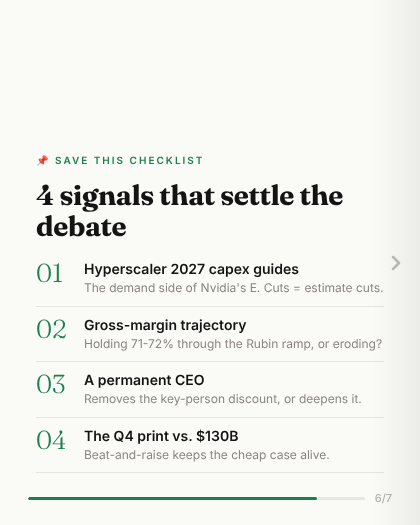
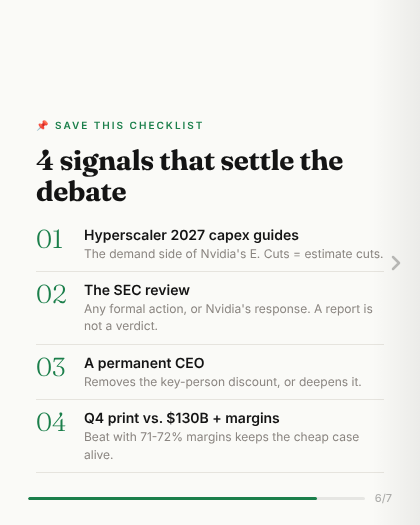
Nvidia carousel: update with Friday close and SEC report
Claude-Session: https://claude.ai/code/session_01HEfkBjtX9jJLAwHVacHrK9

Changed region(s): [[0.0619, 0.2743, 0.9286, 0.8838], [0.0619, 0.6095, 0.1548, 0.8533], [0.0929, 0.2133, 0.4952, 0.2438]]

diff --git a/instagram/panic-and-profit/daily/2026-11-21-nvda/carousel.html b/instagram/panic-and-profit/daily/2026-11-21-nvda/carousel.html
@@ -31,26 +31,29 @@ body{background:#ECEBE6;font-family:'Inter',sans-serif;display:flex;justify-cont
 <polyline points="2,70 40,52 80,38 120,20 150,8 180,26 210,44 240,60 270,74 300,88 340,96" stroke="#C8102E" stroke-width="3" stroke-linecap="round" stroke-linejoin="round"/>
 <circle cx="150" cy="8" r="4.5" fill="#141414"/><circle cx="340" cy="96" r="5" fill="#C8102E"/>
 <text x="158" y="12" font-family="Inter" font-size="9" font-weight="700" fill="#141414" letter-spacing="1">OCT 6 RECORD</text>
-<text x="262" y="104" font-family="Inter" font-size="9" font-weight="700" fill="#C8102E" letter-spacing="1">$145.98</text></svg>
-<div style="display:flex;gap:8px;margin:6px 0 10px;"><span class="sans" style="display:inline-block;font-size:11px;font-weight:700;letter-spacing:1.5px;padding:7px 12px;border:1.5px solid #141414;border-radius:4px;background:#fff;color:#C8102E;margin:0 6px 6px 0;">~-40% FROM ATH</span><span class="sans" style="display:inline-block;font-size:11px;font-weight:700;letter-spacing:1.5px;padding:7px 12px;border:1.5px solid #141414;border-radius:4px;background:#fff;color:#141414;margin:0 6px 6px 0;">P/E 13.6x vs. S&amp;P ~18x</span></div>
-<p class="sans" style="font-size:13px;color:#6B6B6B;line-height:1.5;">Its earnings just grew 111%. So is this a gift, or a trap? Swipe for both sides →</p></div>
+<text x="262" y="104" font-family="Inter" font-size="9" font-weight="700" fill="#C8102E" letter-spacing="1">$125.53</text></svg>
+<div style="display:flex;gap:8px;margin:6px 0 10px;"><span class="sans" style="display:inline-block;font-size:11px;font-weight:700;letter-spacing:1.5px;padding:7px 12px;border:1.5px solid #141414;border-radius:4px;background:#fff;color:#C8102E;margin:0 6px 6px 0;">~-48% FROM ATH</span><span class="sans" style="display:inline-block;font-size:11px;font-weight:700;letter-spacing:1.5px;padding:7px 12px;border:1.5px solid #141414;border-radius:4px;background:#fff;color:#141414;margin:0 6px 6px 0;">P/E 11.7x vs. S&amp;P ~17x</span></div>
+<p class="sans" style="font-size:13px;color:#6B6B6B;line-height:1.5;">Earnings +111%. Stock -14% in a day on an SEC report. Gift, or trap? Swipe for both sides →</p></div>
 <div style="position:absolute;right:0;top:0;bottom:0;width:48px;z-index:9;display:flex;align-items:center;justify-content:center;background:linear-gradient(to right,transparent,rgba(0,0,0,0.06));"><svg width="24" height="24" viewBox="0 0 24 24" fill="none"><path d="M9 6l6 6-6 6" stroke="rgba(0,0,0,0.25)" stroke-width="2.5" stroke-linecap="round" stroke-linejoin="round"/></svg></div><div style="position:absolute;bottom:0;left:0;right:0;padding:16px 28px 20px;z-index:10;display:flex;align-items:center;gap:10px;"><div style="flex:1;height:3px;background:rgba(0,0,0,0.08);border-radius:2px;overflow:hidden;"><div style="height:100%;width:14.29%;background:#1B7F4B;border-radius:2px;"></div></div><span class="sans" style="font-size:11px;color:rgba(0,0,0,0.3);font-weight:500;">1/7</span></div></div><div class="slide" style="background:#FAFAF7;">
 <div style="position:absolute;inset:0;padding:0 36px 52px;display:flex;flex-direction:column;justify-content:flex-end;z-index:2;"><span class="sans" style="display:inline-block;font-size:10px;font-weight:600;letter-spacing:2px;color:#C8102E;margin-bottom:14px;">THE DRAWDOWN</span>
-<h2 class="serif" style="font-size:28px;font-weight:700;line-height:1.1;letter-spacing:-0.4px;color:#141414;margin-bottom:10px;">$2 trillion. Gone in six weeks.</h2>
+<h2 class="serif" style="font-size:28px;font-weight:700;line-height:1.1;letter-spacing:-0.4px;color:#141414;margin-bottom:10px;">$2.7 trillion gone. 7 straight losing weeks.</h2>
 <div style="padding:10px 0;border-bottom:1px solid #E6E4DE;display:flex;justify-content:space-between;align-items:center;gap:12px;">
-<div><div class="sans" style="font-size:9px;font-weight:700;letter-spacing:1.5px;color:#8A8580;">CLOSE, THU NOV 19</div><div class="sans" style="font-size:11px;color:#6B6B6B;margin-top:2px;line-height:1.35;">New 52-week low. -3.3% on the day</div></div>
-<div class="serif" style="font-size:22px;font-weight:800;color:#C8102E;white-space:nowrap;">$145.98</div></div>
+<div><div class="sans" style="font-size:9px;font-weight:700;letter-spacing:1.5px;color:#8A8580;">CLOSE, FRI NOV 20</div><div class="sans" style="font-size:11px;color:#6B6B6B;margin-top:2px;line-height:1.35;">-14% on the day. Worst day since Jan 2025</div></div>
+<div class="serif" style="font-size:22px;font-weight:800;color:#C8102E;white-space:nowrap;">$125.53</div></div>
 <div style="padding:10px 0;border-bottom:1px solid #E6E4DE;display:flex;justify-content:space-between;align-items:center;gap:12px;">
-<div><div class="sans" style="font-size:9px;font-weight:700;letter-spacing:1.5px;color:#8A8580;">FROM THE OCT 6 RECORD</div><div class="sans" style="font-size:11px;color:#6B6B6B;margin-top:2px;line-height:1.35;">The largest dollar wipeout in a condensed window on record (Fortune)</div></div>
-<div class="serif" style="font-size:22px;font-weight:800;color:#C8102E;white-space:nowrap;">~-40%</div></div>
+<div><div class="sans" style="font-size:9px;font-weight:700;letter-spacing:1.5px;color:#8A8580;">FROM THE OCT 6 RECORD</div><div class="sans" style="font-size:11px;color:#6B6B6B;margin-top:2px;line-height:1.35;">~$2.7T of market cap erased</div></div>
+<div class="serif" style="font-size:22px;font-weight:800;color:#C8102E;white-space:nowrap;">~-48%</div></div>
 <div style="padding:10px 0;border-bottom:1px solid #E6E4DE;display:flex;justify-content:space-between;align-items:center;gap:12px;">
 <div><div class="sans" style="font-size:9px;font-weight:700;letter-spacing:1.5px;color:#8A8580;">CATALYST 1</div><div class="sans" style="font-size:11px;color:#6B6B6B;margin-top:2px;line-height:1.35;">Huang out Nov 12; CFO Colette Kress interim CEO, search ongoing</div></div>
 <div class="serif" style="font-size:22px;font-weight:800;color:#141414;white-space:nowrap;">CEO exit</div></div>
 <div style="padding:10px 0;border-bottom:1px solid #E6E4DE;display:flex;justify-content:space-between;align-items:center;gap:12px;">
-<div><div class="sans" style="font-size:9px;font-weight:700;letter-spacing:1.5px;color:#8A8580;">CATALYST 2</div><div class="sans" style="font-size:11px;color:#6B6B6B;margin-top:2px;line-height:1.35;">Can hyperscalers keep spending as free cash flow thins?</div></div>
+<div><div class="sans" style="font-size:9px;font-weight:700;letter-spacing:1.5px;color:#8A8580;">CATALYST 2</div><div class="sans" style="font-size:11px;color:#6B6B6B;margin-top:2px;line-height:1.35;">Reuters: SEC examining its accounting. No charges; SEC no comment</div></div>
+<div class="serif" style="font-size:22px;font-weight:800;color:#C8102E;white-space:nowrap;">SEC report</div></div>
+<div style="padding:10px 0;border-bottom:1px solid #E6E4DE;display:flex;justify-content:space-between;align-items:center;gap:12px;">
+<div><div class="sans" style="font-size:9px;font-weight:700;letter-spacing:1.5px;color:#8A8580;">CATALYST 3</div><div class="sans" style="font-size:11px;color:#6B6B6B;margin-top:2px;line-height:1.35;">Can hyperscalers keep spending as free cash flow thins?</div></div>
 <div class="serif" style="font-size:22px;font-weight:800;color:#141414;white-space:nowrap;">Capex funding</div></div>
 <p class="sans" style="font-size:11.5px;font-weight:700;color:#C8102E;margin-top:10px;">But the numbers tell a different story →</p>
-<p class="sans" style="font-size:9px;color:#A09B95;margin-top:10px;">Sources: Motley Fool, TokenPost, Fortune, CNBC, Nvidia 8-K (SEC), Barclays via BigGo.</p></div>
+<p class="sans" style="font-size:9px;color:#A09B95;margin-top:10px;">Sources: Yahoo Finance, Global Banking &amp; Finance, Reuters, Bloomberg, CNBC, Nvidia 8-K (SEC), Barclays via BigGo.</p></div>
 <div style="position:absolute;right:0;top:0;bottom:0;width:48px;z-index:9;display:flex;align-items:center;justify-content:center;background:linear-gradient(to right,transparent,rgba(0,0,0,0.06));"><svg width="24" height="24" viewBox="0 0 24 24" fill="none"><path d="M9 6l6 6-6 6" stroke="rgba(0,0,0,0.25)" stroke-width="2.5" stroke-linecap="round" stroke-linejoin="round"/></svg></div><div style="position:absolute;bottom:0;left:0;right:0;padding:16px 28px 20px;z-index:10;display:flex;align-items:center;gap:10px;"><div style="flex:1;height:3px;background:rgba(0,0,0,0.08);border-radius:2px;overflow:hidden;"><div style="height:100%;width:28.57%;background:#1B7F4B;border-radius:2px;"></div></div><span class="sans" style="font-size:11px;color:rgba(0,0,0,0.3);font-weight:500;">2/7</span></div></div><div class="slide" style="background:#FAFAF7;">
 <div style="position:absolute;inset:0;padding:0 36px 52px;display:flex;flex-direction:column;justify-content:flex-end;z-index:2;"><span class="sans" style="display:inline-block;font-size:10px;font-weight:600;letter-spacing:2px;color:#1B7F4B;margin-bottom:14px;">THE FUNDAMENTALS: Q3 FY27</span>
 <h2 class="serif" style="font-size:28px;font-weight:700;line-height:1.1;letter-spacing:-0.4px;color:#141414;margin-bottom:10px;">The print didn't break. The multiple did.</h2>
@@ -75,14 +78,14 @@ body{background:#ECEBE6;font-family:'Inter',sans-serif;display:flex;justify-cont
 <div style="position:absolute;inset:0;padding:0 36px 52px;display:flex;flex-direction:column;justify-content:flex-end;z-index:2;"><span class="sans" style="display:inline-block;font-size:10px;font-weight:600;letter-spacing:2px;color:#1B7F4B;margin-bottom:14px;">THE MULTIPLE</span>
 <h2 class="serif" style="font-size:28px;font-weight:700;line-height:1.1;letter-spacing:-0.4px;color:#141414;margin-bottom:10px;">Below-market multiple. +111% EPS.</h2>
 <p class="sans" style="font-size:12px;color:#555;line-height:1.5;margin-bottom:6px;"><b>P/E in plain English:</b> how many years of today's profit it takes to earn back the price you pay.</p>
-<div style="margin:6px 0;"><div style="display:flex;justify-content:space-between;align-items:baseline;"><span class="sans" style="font-size:11px;font-weight:700;letter-spacing:1px;color:#141414;">NVIDIA · RUN-RATE</span><span class="serif" style="font-size:20px;font-weight:800;color:#1B7F4B;">13.6x</span></div>
-<div style="height:14px;background:#E6E4DE;border-radius:7px;margin-top:5px;overflow:hidden;"><div style="height:100%;width:68.0%;background:#1B7F4B;border-radius:7px;"></div></div>
-<div class="sans" style="font-size:10px;color:#8A8580;margin-top:3px;">$145.98 / ($2.68 × 4 = $10.72). Street forward: ~12-14x</div></div>
-<div style="margin:6px 0;"><div style="display:flex;justify-content:space-between;align-items:baseline;"><span class="sans" style="font-size:11px;font-weight:700;letter-spacing:1px;color:#141414;">S&amp;P 500 · FORWARD 12M</span><span class="serif" style="font-size:20px;font-weight:800;color:#141414;">17.7-18.3x</span></div>
-<div style="height:14px;background:#E6E4DE;border-radius:7px;margin-top:5px;overflow:hidden;"><div style="height:100%;width:90.0%;background:#141414;border-radius:7px;"></div></div>
-<div class="sans" style="font-size:10px;color:#8A8580;margin-top:3px;">FactSet, Nov 5-13</div></div>
-<div style="display:flex;gap:10px;margin-top:8px;"><div style="flex:1;border:1px solid #E6E4DE;border-radius:10px;padding:10px;background:#fff;"><div class="sans" style="font-size:9px;font-weight:700;letter-spacing:1.5px;color:#1B7F4B;">IMPLIED PEG</div><div class="serif" style="font-size:20px;font-weight:800;color:#141414;">~0.12</div><div class="sans" style="font-size:9.5px;color:#8A8580;">13.6x / 111% EPS growth</div></div>
-<div style="flex:1;border:1px solid #E6E4DE;border-radius:10px;padding:10px;background:#fff;"><div class="sans" style="font-size:9px;font-weight:700;letter-spacing:1.5px;color:#C8102E;">EARNINGS YIELD</div><div class="serif" style="font-size:20px;font-weight:800;color:#141414;">~7.3%</div><div class="sans" style="font-size:9.5px;color:#8A8580;">vs. ~5% on 10-year Treasuries</div></div></div>
+<div style="margin:6px 0;"><div style="display:flex;justify-content:space-between;align-items:baseline;"><span class="sans" style="font-size:11px;font-weight:700;letter-spacing:1px;color:#141414;">NVIDIA · RUN-RATE</span><span class="serif" style="font-size:20px;font-weight:800;color:#1B7F4B;">11.7x</span></div>
+<div style="height:14px;background:#E6E4DE;border-radius:7px;margin-top:5px;overflow:hidden;"><div style="height:100%;width:58.5%;background:#1B7F4B;border-radius:7px;"></div></div>
+<div class="sans" style="font-size:10px;color:#8A8580;margin-top:3px;">$125.53 / ($2.68 × 4 = $10.72 annualized EPS)</div></div>
+<div style="margin:6px 0;"><div style="display:flex;justify-content:space-between;align-items:baseline;"><span class="sans" style="font-size:11px;font-weight:700;letter-spacing:1px;color:#141414;">S&amp;P 500 · FORWARD 12M</span><span class="serif" style="font-size:20px;font-weight:800;color:#141414;">~17x</span></div>
+<div style="height:14px;background:#E6E4DE;border-radius:7px;margin-top:5px;overflow:hidden;"><div style="height:100%;width:83.5%;background:#141414;border-radius:7px;"></div></div>
+<div class="sans" style="font-size:10px;color:#8A8580;margin-top:3px;">FactSet 18.3x (Nov 13), adjusted for this week's -8.6%</div></div>
+<div style="display:flex;gap:10px;margin-top:8px;"><div style="flex:1;border:1px solid #E6E4DE;border-radius:10px;padding:10px;background:#fff;"><div class="sans" style="font-size:9px;font-weight:700;letter-spacing:1.5px;color:#1B7F4B;">IMPLIED PEG</div><div class="serif" style="font-size:20px;font-weight:800;color:#141414;">~0.11</div><div class="sans" style="font-size:9.5px;color:#8A8580;">11.7x / 111% EPS growth</div></div>
+<div style="flex:1;border:1px solid #E6E4DE;border-radius:10px;padding:10px;background:#fff;"><div class="sans" style="font-size:9px;font-weight:700;letter-spacing:1.5px;color:#C8102E;">EARNINGS YIELD</div><div class="serif" style="font-size:20px;font-weight:800;color:#141414;">~8.5%</div><div class="sans" style="font-size:9.5px;color:#8A8580;">vs. ~5% on 10-year Treasuries</div></div></div>
 <p class="sans" style="font-size:11.5px;font-weight:700;color:#C8102E;margin-top:10px;">Too good to be true? The bear case →</p>
 <p class="sans" style="font-size:9px;color:#A09B95;margin-top:10px;">Our math from Nvidia's reported EPS. Sources: Benzinga, Crypto Briefing, Motley Fool, FactSet.</p></div>
 <div style="position:absolute;right:0;top:0;bottom:0;width:48px;z-index:9;display:flex;align-items:center;justify-content:center;background:linear-gradient(to right,transparent,rgba(0,0,0,0.06));"><svg width="24" height="24" viewBox="0 0 24 24" fill="none"><path d="M9 6l6 6-6 6" stroke="rgba(0,0,0,0.25)" stroke-width="2.5" stroke-linecap="round" stroke-linejoin="round"/></svg></div><div style="position:absolute;bottom:0;left:0;right:0;padding:16px 28px 20px;z-index:10;display:flex;align-items:center;gap:10px;"><div style="flex:1;height:3px;background:rgba(0,0,0,0.08);border-radius:2px;overflow:hidden;"><div style="height:100%;width:57.14%;background:#1B7F4B;border-radius:2px;"></div></div><span class="sans" style="font-size:11px;color:rgba(0,0,0,0.3);font-weight:500;">4/7</span></div></div><div class="slide" style="background:#FAFAF7;">
@@ -91,10 +94,10 @@ body{background:#ECEBE6;font-family:'Inter',sans-serif;display:flex;justify-cont
 <div style="display:flex;gap:8px;">
 <div style="flex:1;border:1.5px solid #1B7F4B;border-radius:10px;padding:11px 11px 6px;background:#fff;">
 <div class="sans" style="font-size:10px;font-weight:800;letter-spacing:2px;color:#1B7F4B;margin-bottom:6px;">CHEAP</div>
-<ul class="sans" style="font-size:10.5px;color:#141414;line-height:1.38;padding-left:13px;"><li style="margin:0 0 6px 0;">Hypergrowth at a value multiple: PEG ~0.1</li><li style="margin:0 0 6px 0;">Guide implies +12% q/q on Rubin ramp</li><li style="margin:0 0 6px 0;">Moat: CUDA + full-stack systems</li><li style="margin:0 0 6px 0;">Below-market P/E with ~75% margins</li></ul></div>
+<ul class="sans" style="font-size:10.5px;color:#141414;line-height:1.38;padding-left:13px;"><li style="margin:0 0 6px 0;">Hypergrowth at a value multiple: PEG ~0.11</li><li style="margin:0 0 6px 0;">Guide implies +12% q/q on Rubin ramp</li><li style="margin:0 0 6px 0;">Moat: CUDA + full-stack systems</li><li style="margin:0 0 6px 0;">Below-market P/E with ~75% margins</li></ul></div>
 <div style="flex:1;border:1.5px solid #C8102E;border-radius:10px;padding:11px 11px 6px;background:#fff;">
 <div class="sans" style="font-size:10px;font-weight:800;letter-spacing:2px;color:#C8102E;margin-bottom:6px;">TRAP</div>
-<ul class="sans" style="font-size:10.5px;color:#141414;line-height:1.38;padding-left:13px;"><li style="margin:0 0 6px 0;">Cyclical math: low P/E at <b>peak</b> E is the classic semis trap</li><li style="margin:0 0 6px 0;">GM guide down ~340 bps to 71-72%</li><li style="margin:0 0 6px 0;">Capex funded by thinning FCF; a 2027 cut hits E, not just P</li><li style="margin:0 0 6px 0;">Key-person risk + vendor financing of customers</li></ul></div>
+<ul class="sans" style="font-size:10.5px;color:#141414;line-height:1.38;padding-left:13px;"><li style="margin:0 0 6px 0;">Cyclical math: low P/E at <b>peak</b> E is the classic semis trap</li><li style="margin:0 0 6px 0;">GM guide down ~340 bps to 71-72%</li><li style="margin:0 0 6px 0;"><b>SEC reportedly examining the accounting:</b> if the E is in doubt, the P/E means nothing</li><li style="margin:0 0 6px 0;">Capex funded by thinning FCF + key-person risk</li></ul></div>
 </div>
 <p class="sans" style="font-size:12px;color:#555;line-height:1.5;margin-top:10px;">The debate isn't the P. It's the <b>durability of the E</b>: is FY27 a plateau or a peak?</p>
 <p class="sans" style="font-size:9px;color:#A09B95;margin-top:10px;">Sources: Nvidia guidance, Barclays, Fortune, CNBC, Yahoo Finance.</p></div>
@@ -106,13 +109,13 @@ body{background:#ECEBE6;font-family:'Inter',sans-serif;display:flex;justify-cont
 <div><div class="sans" style="font-size:14px;font-weight:600;color:#141414;">Hyperscaler 2027 capex guides</div><div class="sans" style="font-size:12px;color:#8A8580;line-height:1.45;margin-top:2px;">The demand side of Nvidia's E. Cuts = estimate cuts.</div></div></div>
 <div style="display:flex;align-items:flex-start;gap:14px;padding:9px 0;border-bottom:1px solid #E6E4DE;">
 <span class="serif" style="font-size:26px;font-weight:300;color:#1B7F4B;min-width:34px;line-height:1;">02</span>
-<div><div class="sans" style="font-size:14px;font-weight:600;color:#141414;">Gross-margin trajectory</div><div class="sans" style="font-size:12px;color:#8A8580;line-height:1.45;margin-top:2px;">Holding 71-72% through the Rubin ramp, or eroding?</div></div></div>
+<div><div class="sans" style="font-size:14px;font-weight:600;color:#141414;">The SEC review</div><div class="sans" style="font-size:12px;color:#8A8580;line-height:1.45;margin-top:2px;">Any formal action, or Nvidia's response. A report is not a verdict.</div></div></div>
 <div style="display:flex;align-items:flex-start;gap:14px;padding:9px 0;border-bottom:1px solid #E6E4DE;">
 <span class="serif" style="font-size:26px;font-weight:300;color:#1B7F4B;min-width:34px;line-height:1;">03</span>
 <div><div class="sans" style="font-size:14px;font-weight:600;color:#141414;">A permanent CEO</div><div class="sans" style="font-size:12px;color:#8A8580;line-height:1.45;margin-top:2px;">Removes the key-person discount, or deepens it.</div></div></div>
 <div style="display:flex;align-items:flex-start;gap:14px;padding:9px 0;border-bottom:1px solid #E6E4DE;">
 <span class="serif" style="font-size:26px;font-weight:300;color:#1B7F4B;min-width:34px;line-height:1;">04</span>
-<div><div class="sans" style="font-size:14px;font-weight:600;color:#141414;">The Q4 print vs. $130B</div><div class="sans" style="font-size:12px;color:#8A8580;line-height:1.45;margin-top:2px;">Beat-and-raise keeps the cheap case alive.</div></div></div></div>
+<div><div class="sans" style="font-size:14px;font-weight:600;color:#141414;">Q4 print vs. $130B + margins</div><div class="sans" style="font-size:12px;color:#8A8580;line-height:1.45;margin-top:2px;">Beat with 71-72% margins keeps the cheap case alive.</div></div></div></div>
 <div style="position:absolute;right:0;top:0;bottom:0;width:48px;z-index:9;display:flex;align-items:center;justify-content:center;background:linear-gradient(to right,transparent,rgba(0,0,0,0.06));"><svg width="24" height="24" viewBox="0 0 24 24" fill="none"><path d="M9 6l6 6-6 6" stroke="rgba(0,0,0,0.25)" stroke-width="2.5" stroke-linecap="round" stroke-linejoin="round"/></svg></div><div style="position:absolute;bottom:0;left:0;right:0;padding:16px 28px 20px;z-index:10;display:flex;align-items:center;gap:10px;"><div style="flex:1;height:3px;background:rgba(0,0,0,0.08);border-radius:2px;overflow:hidden;"><div style="height:100%;width:85.71%;background:#1B7F4B;border-radius:2px;"></div></div><span class="sans" style="font-size:11px;color:rgba(0,0,0,0.3);font-weight:500;">6/7</span></div></div><div class="slide" style="background:#FAFAF7;">
 <div style="position:absolute;inset:0;padding:0 36px 52px;display:flex;flex-direction:column;justify-content:center;z-index:2;"><div style="text-align:center;display:flex;flex-direction:column;align-items:center;">
 <div style="padding:0 0 4px;margin-bottom:18px;"><div style="display:inline-block;"><div class="serif" style="font-size:24px;font-weight:800;color:#141414;letter-spacing:-0.3px;line-height:1;">Panic <span style="font-style:italic;font-weight:500;color:#8A8A8A;">&amp;</span> Profit</div><svg width="170" height="26" viewBox="0 0 300 42" fill="none" style="display:block;margin-top:4px;"><polyline points="4,10 62,15 104,35" stroke="#C8102E" stroke-width="4" stroke-linecap="round" stroke-linejoin="round"/><polyline points="104,35 168,19 216,12 292,4" stroke="#1B7F4B" stroke-width="4" stroke-linecap="round" stroke-linejoin="round"/><circle cx="292" cy="4" r="4" fill="#1B7F4B"/></svg><div class="sans" style="font-size:7px;letter-spacing:2px;color:#8A8A8A;margin-top:6px;">MARKETS · MACRO · GEOPOLITICS</div></div></div>

diff --git a/instagram/panic-and-profit/daily/2026-11-21-nvda/build.py b/instagram/panic-and-profit/daily/2026-11-21-nvda/build.py
@@ -44,13 +44,13 @@ spark=f"""<svg width="348" height="90" viewBox="0 0 348 110" fill="none" style="
 <polyline points="2,70 40,52 80,38 120,20 150,8 180,26 210,44 240,60 270,74 300,88 340,96" stroke="{RED}" stroke-width="3" stroke-linecap="round" stroke-linejoin="round"/>
 <circle cx="150" cy="8" r="4.5" fill="{INK}"/><circle cx="340" cy="96" r="5" fill="{RED}"/>
 <text x="158" y="12" font-family="Inter" font-size="9" font-weight="700" fill="{INK}" letter-spacing="1">OCT 6 RECORD</text>
-<text x="262" y="104" font-family="Inter" font-size="9" font-weight="700" fill="{RED}" letter-spacing="1">$145.98</text></svg>"""
+<text x="262" y="104" font-family="Inter" font-size="9" font-weight="700" fill="{RED}" letter-spacing="1">$125.53</text></svg>"""
 b1=f"""<div style="position:absolute;top:30px;left:36px;">{logo(17,line_w=110,tagline=False)}</div>
 <div style="height:30px"></div>{tag("IS NVIDIA CHEAP NOW?", RED)}
 <h1 class="serif" style="font-size:33px;font-weight:700;line-height:1.05;letter-spacing:-0.6px;color:{INK};">Nvidia is now cheaper than the S&amp;P 500.</h1>
 {spark}
-<div style="display:flex;gap:8px;margin:6px 0 10px;">{chip("~-40% FROM ATH",RED)}{chip("P/E 13.6x vs. S&amp;P ~18x",INK)}</div>
-<p class="sans" style="font-size:13px;color:#6B6B6B;line-height:1.5;">Its earnings just grew 111%. So is this a gift, or a trap? Swipe for both sides →</p>"""
+<div style="display:flex;gap:8px;margin:6px 0 10px;">{chip("~-48% FROM ATH",RED)}{chip("P/E 11.7x vs. S&amp;P ~17x",INK)}</div>
+<p class="sans" style="font-size:13px;color:#6B6B6B;line-height:1.5;">Earnings +111%. Stock -14% in a day on an SEC report. Gift, or trap? Swipe for both sides →</p>"""
 slides.append(slide(0,LBG,b1,True,justify="center"))
 
 # 2 THE DRAWDOWN
@@ -59,13 +59,14 @@ def stat(lbl,val,sub,col=INK):
 <div><div class="sans" style="font-size:9px;font-weight:700;letter-spacing:1.5px;color:#8A8580;">{lbl}</div><div class="sans" style="font-size:11px;color:#6B6B6B;margin-top:2px;line-height:1.35;">{sub}</div></div>
 <div class="serif" style="font-size:22px;font-weight:800;color:{col};white-space:nowrap;">{val}</div></div>"""
 b2=f"""{tag("THE DRAWDOWN", RED)}
-{H2("$2 trillion. Gone in six weeks.")}
-{stat("CLOSE, THU NOV 19","$145.98","New 52-week low. -3.3% on the day",RED)}
-{stat("FROM THE OCT 6 RECORD","~-40%","The largest dollar wipeout in a condensed window on record (Fortune)",RED)}
+{H2("$2.7 trillion gone. 7 straight losing weeks.")}
+{stat("CLOSE, FRI NOV 20","$125.53","-14% on the day. Worst day since Jan 2025",RED)}
+{stat("FROM THE OCT 6 RECORD","~-48%","~$2.7T of market cap erased",RED)}
 {stat("CATALYST 1","CEO exit","Huang out Nov 12; CFO Colette Kress interim CEO, search ongoing")}
-{stat("CATALYST 2","Capex funding","Can hyperscalers keep spending as free cash flow thins?")}
+{stat("CATALYST 2","SEC report","Reuters: SEC examining its accounting. No charges; SEC no comment",RED)}
+{stat("CATALYST 3","Capex funding","Can hyperscalers keep spending as free cash flow thins?")}
 {TEASE("But the numbers tell a different story")}
-{SRC("Sources: Motley Fool, TokenPost, Fortune, CNBC, Nvidia 8-K (SEC), Barclays via BigGo.")}"""
+{SRC("Sources: Yahoo Finance, Global Banking &amp; Finance, Reuters, Bloomberg, CNBC, Nvidia 8-K (SEC), Barclays via BigGo.")}"""
 slides.append(slide(1,LBG,b2,True))
 
 # 3 THE PRINT
@@ -88,10 +89,10 @@ def bar_row(lbl,val,w,col,sub):
 b4=f"""{tag("THE MULTIPLE", P)}
 {H2("Below-market multiple. +111% EPS.")}
 <p class="sans" style="font-size:12px;color:#555;line-height:1.5;margin-bottom:6px;"><b>P/E in plain English:</b> how many years of today's profit it takes to earn back the price you pay.</p>
-{bar_row("NVIDIA · RUN-RATE","13.6x",13.6/20*100,P,"$145.98 / ($2.68 × 4 = $10.72). Street forward: ~12-14x")}
-{bar_row("S&amp;P 500 · FORWARD 12M","17.7-18.3x",18/20*100,INK,"FactSet, Nov 5-13")}
-<div style="display:flex;gap:10px;margin-top:8px;"><div style="flex:1;border:1px solid {LBR};border-radius:10px;padding:10px;background:#fff;"><div class="sans" style="font-size:9px;font-weight:700;letter-spacing:1.5px;color:{P};">IMPLIED PEG</div><div class="serif" style="font-size:20px;font-weight:800;color:{INK};">~0.12</div><div class="sans" style="font-size:9.5px;color:#8A8580;">13.6x / 111% EPS growth</div></div>
-<div style="flex:1;border:1px solid {LBR};border-radius:10px;padding:10px;background:#fff;"><div class="sans" style="font-size:9px;font-weight:700;letter-spacing:1.5px;color:{RED};">EARNINGS YIELD</div><div class="serif" style="font-size:20px;font-weight:800;color:{INK};">~7.3%</div><div class="sans" style="font-size:9.5px;color:#8A8580;">vs. ~5% on 10-year Treasuries</div></div></div>
+{bar_row("NVIDIA · RUN-RATE","11.7x",11.7/20*100,P,"$125.53 / ($2.68 × 4 = $10.72 annualized EPS)")}
+{bar_row("S&amp;P 500 · FORWARD 12M","~17x",16.7/20*100,INK,"FactSet 18.3x (Nov 13), adjusted for this week's -8.6%")}
+<div style="display:flex;gap:10px;margin-top:8px;"><div style="flex:1;border:1px solid {LBR};border-radius:10px;padding:10px;background:#fff;"><div class="sans" style="font-size:9px;font-weight:700;letter-spacing:1.5px;color:{P};">IMPLIED PEG</div><div class="serif" style="font-size:20px;font-weight:800;color:{INK};">~0.11</div><div class="sans" style="font-size:9.5px;color:#8A8580;">11.7x / 111% EPS growth</div></div>
+<div style="flex:1;border:1px solid {LBR};border-radius:10px;padding:10px;background:#fff;"><div class="sans" style="font-size:9px;font-weight:700;letter-spacing:1.5px;color:{RED};">EARNINGS YIELD</div><div class="serif" style="font-size:20px;font-weight:800;color:{INK};">~8.5%</div><div class="sans" style="font-size:9.5px;color:#8A8580;">vs. ~5% on 10-year Treasuries</div></div></div>
 {TEASE("Too good to be true? The bear case")}
 {SRC("Our math from Nvidia's reported EPS. Sources: Benzinga, Crypto Briefing, Motley Fool, FactSet.")}"""
 slides.append(slide(3,LBG,b4,True))
@@ -105,8 +106,8 @@ def case(title,col,items):
 b5=f"""{tag("BULL CASE vs. BEAR CASE", INK)}
 {H2("Cheap multiple, or peak earnings?")}
 <div style="display:flex;gap:8px;">
-{case("CHEAP",P,["Hypergrowth at a value multiple: PEG ~0.1","Guide implies +12% q/q on Rubin ramp","Moat: CUDA + full-stack systems","Below-market P/E with ~75% margins"])}
-{case("TRAP",RED,["Cyclical math: low P/E at <b>peak</b> E is the classic semis trap","GM guide down ~340 bps to 71-72%","Capex funded by thinning FCF; a 2027 cut hits E, not just P","Key-person risk + vendor financing of customers"])}
+{case("CHEAP",P,["Hypergrowth at a value multiple: PEG ~0.11","Guide implies +12% q/q on Rubin ramp","Moat: CUDA + full-stack systems","Below-market P/E with ~75% margins"])}
+{case("TRAP",RED,["Cyclical math: low P/E at <b>peak</b> E is the classic semis trap","GM guide down ~340 bps to 71-72%","<b>SEC reportedly examining the accounting:</b> if the E is in doubt, the P/E means nothing","Capex funded by thinning FCF + key-person risk"])}
 </div>
 <p class="sans" style="font-size:12px;color:#555;line-height:1.5;margin-top:10px;">The debate isn't the P. It's the <b>durability of the E</b>: is FY27 a plateau or a peak?</p>
 {SRC("Sources: Nvidia guidance, Barclays, Fortune, CNBC, Yahoo Finance.")}"""
@@ -120,9 +121,9 @@ def step(n,t,d):
 b6=f"""{tag("📌 SAVE THIS CHECKLIST", P)}
 {H2("4 signals that settle the debate")}
 {step("01","Hyperscaler 2027 capex guides","The demand side of Nvidia's E. Cuts = estimate cuts.")}
-{step("02","Gross-margin trajectory","Holding 71-72% through the Rubin ramp, or eroding?")}
+{step("02","The SEC review","Any formal action, or Nvidia's response. A report is not a verdict.")}
 {step("03","A permanent CEO","Removes the key-person discount, or deepens it.")}
-{step("04","The Q4 print vs. $130B","Beat-and-raise keeps the cheap case alive.")}"""
+{step("04","Q4 print vs. $130B + margins","Beat with 71-72% margins keeps the cheap case alive.")}"""
 slides.append(slide(5,LBG,b6,True))
 
 # 7 VOTE + CTA

diff --git a/instagram/panic-and-profit/daily/2026-11-21-nvda/sources.md b/instagram/panic-and-profit/daily/2026-11-21-nvda/sources.md
@@ -7,3 +7,9 @@
 - S&P 500 forward P/E 17.7 (Nov 5) / 18.3 (Nov 13): FactSet https://insight.factset.com/lowest-forward-12-month-p/e-ratio-for-the-sp-500-in-more-than-3-years
 - Capex funding concern: Barclays via BigGo https://finance.biggo.com/news/8fb2ed68-9970-43fe-b1ae-7c6c3a55389e ; Yahoo Finance https://finance.yahoo.com/markets/stocks/article/nvidia-stock-valuation-gets-torched-by-tech-stock-rout-110145628.html
 - Own math: 2.68×4=10.72; 145.98/10.72=13.6x; PEG 13.6/111=0.12; earnings yield 1/13.6=7.3%; guide 130/115.8=+12.3% q/q; GM 74.9→71.5 midpoint ≈ -340 bps.
+
+## Update Sat Nov 21 (Friday close)
+- NVDA close Fri Nov 20 $125.53 (-14.01%), worst day since Jan 2025: Yahoo Finance history https://finance.yahoo.com/quote/NVDA/history/ ; Global Banking & Finance https://www.globalbankingandfinance.com/nvidia-nvda-falls-2026-11-20/ ; Forbes ($125.84).
+- SEC examining accounting (Reuters, 2 sources; SEC no comment; Nvidia no immediate response): Daily Star/Reuters https://www.thedailystar.net/news/world/news/nvidias-accounting-focus-us-sec-investigation-sources-say-4329306 ; Bloomberg ; Yahoo Finance https://finance.yahoo.com/markets/article/nvidia-stock-extends-25-trillion-rout-as-sec-probe-reportedly-investigates-its-accounting-194945274.html
+- ~$2.7T lost / 7 straight losing weeks: Yahoo Finance; Dimsum Daily https://www.dimsumdaily.hk/nvidia-extends-us2-7-trillion-stock-rout-as-sec-probes-accounting-practices/ ; Dealroom https://dealroom.co/news/174723-sec-probe-of-nvidia-turns-to-its-accounting-as-shares-fall-14-and-close-/
+- Own math: 125.53/10.72 = 11.7x; PEG 11.7/111 = 0.11; EY 8.5%; -48% vs ~$243 record; S&P fwd P/E ~16.7x = FactSet 18.3x (Nov 13) x (6,910.39/7,561.67).
